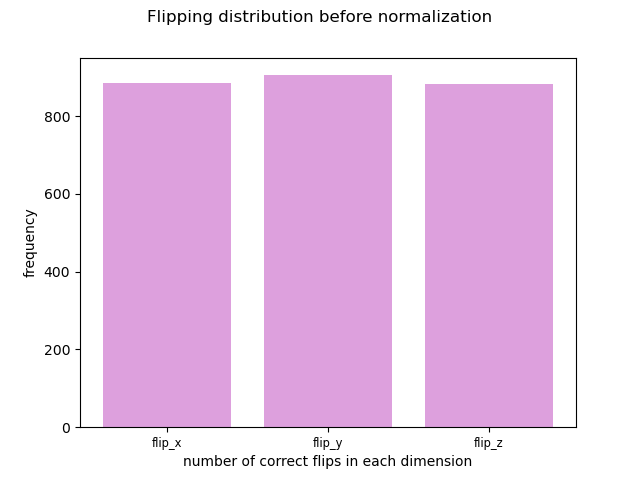
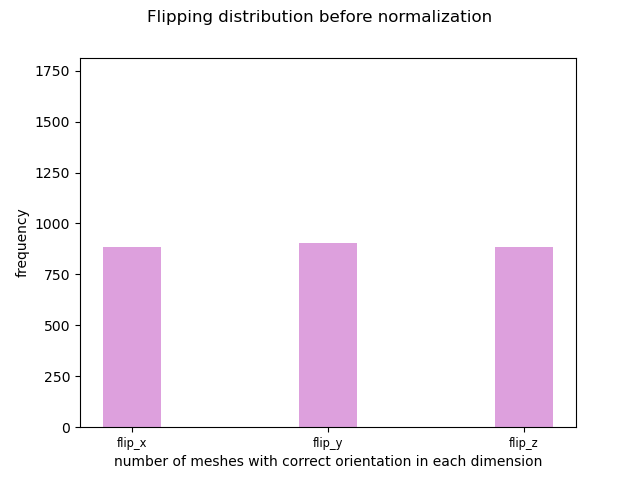
updated plots

diff --git a/normalised_hist.py b/normalised_hist.py
@@ -80,16 +80,16 @@ from matplotlib import ft2font
 
 
 #scaling distribution after normalization
-csv_name ="./csv/Princeton_remeshed_normalized_basic_mesh_info.csv"
-plt_name = "scale after normalization"
-df = pd.read_csv(csv_name)
-df.hist(column=["scale"], color='plum')
-plt.xlim([1, 5])
-plt.suptitle(plt_name, fontsize=fontsize)
-plt.ylabel("frequency")
-plt.xlabel("length of diagonal box of the axis aligned bounding box")
-plt.savefig("resample_plots/scaling_after")
-plt.show()
+# csv_name ="./csv/Princeton_remeshed_normalized_basic_mesh_info.csv"
+# plt_name = "scale after normalization"
+# df = pd.read_csv(csv_name)
+# df.hist(column=["scale"], color='plum')
+# plt.xlim([1, 5])
+# plt.suptitle(plt_name, fontsize=fontsize)
+# plt.ylabel("frequency")
+# plt.xlabel("length of diagonal box of the axis aligned bounding box")
+# plt.savefig("resample_plots/scaling_after")
+# plt.show()
 
 
 #flipping distribution after normalization
@@ -103,10 +103,10 @@ cz = df['flip_z'].value_counts()[1]
 print(cx,cy,cz)
 data = {'flip_x': cx, 'flip_y': cy, 'flip_z': cz}
 df = pd.Series(data)
-plt.bar(range(len(df)), df.values, align='center', color='plum')
+plt.bar(range(len(df)), df.values, align='center', color='plum', width = 0.3)
 plt.xticks(range(len(df)), df.index.values, size='small')
 plt.suptitle(plt_name, fontsize=fontsize)
 plt.ylabel("frequency")
-plt.xlabel("number of correct flips in each dimension")
+plt.xlabel("number of meshes with correct orientation in each dimension")
 plt.savefig("resample_plots/flipping_after")
 plt.show()

diff --git a/histograms.py b/histograms.py
@@ -98,22 +98,23 @@ fontsize =12
 
 
 # #flipping
-# csv_name ="./csv/Princeton_flipping.csv"
-# plt_name = "Flipping distribution before normalization"
-# df = pd.read_csv(csv_name)
-# cx = df['flip_x'].value_counts()[1]
-# cy = df['flip_y'].value_counts()[1]
-# cz = df['flip_z'].value_counts()[1]
-# print(cx,cy,cz)
-# data = {'flip_x': cx, 'flip_y': cy, 'flip_z': cz}
-# df = pd.Series(data)
-# plt.bar(range(len(df)), df.values, align='center', color='plum')
-# plt.xticks(range(len(df)), df.index.values, size='small')
-# plt.suptitle(plt_name, fontsize=fontsize)
-# plt.ylabel("frequency")
-# plt.xlabel("number of correct flips in each dimension")
-# plt.savefig("resample_plots/flipping_before")
-# plt.show()
+csv_name ="./csv/Princeton_flipping.csv"
+plt_name = "Flipping distribution before normalization"
+df = pd.read_csv(csv_name)
+cx = df['flip_x'].value_counts()[1]
+cy = df['flip_y'].value_counts()[1]
+cz = df['flip_z'].value_counts()[1]
+print(cx,cy,cz)
+data = {'flip_x': cx, 'flip_y': cy, 'flip_z': cz}
+df = pd.Series(data)
+plt.bar(range(len(df)), df.values, align='center', color='plum', width = 0.3)
+plt.xticks(range(len(df)), df.index.values, size='small')
+plt.suptitle(plt_name, fontsize=fontsize)
+plt.ylim([0, 1814])
+plt.ylabel("frequency")
+plt.xlabel("number of meshes with correct orientation in each dimension")
+plt.savefig("resample_plots/flipping_before")
+plt.show()
 
 
 
